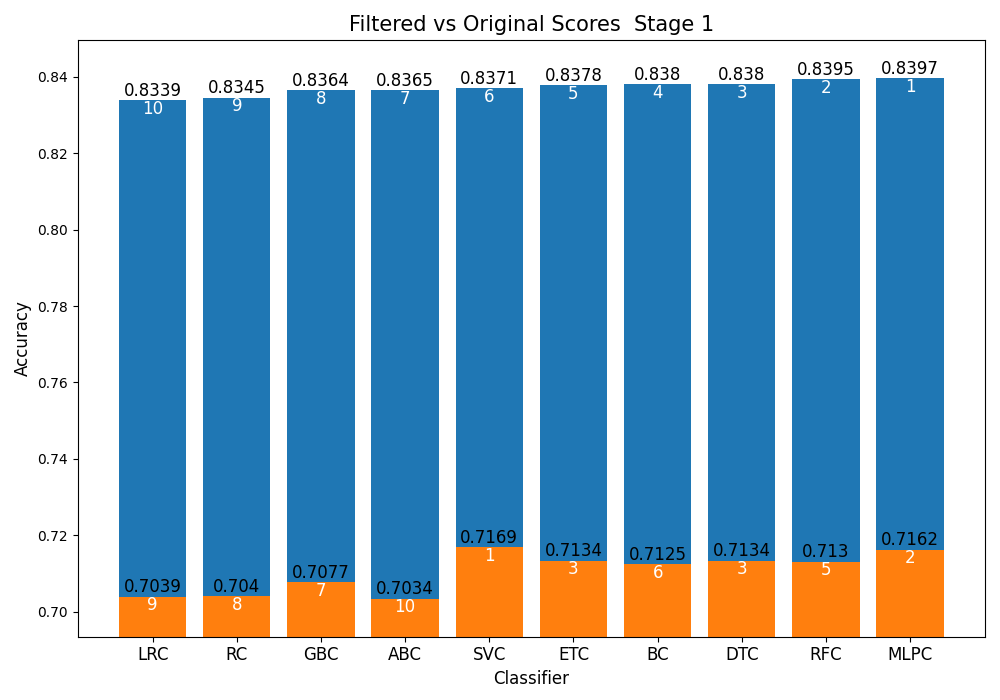
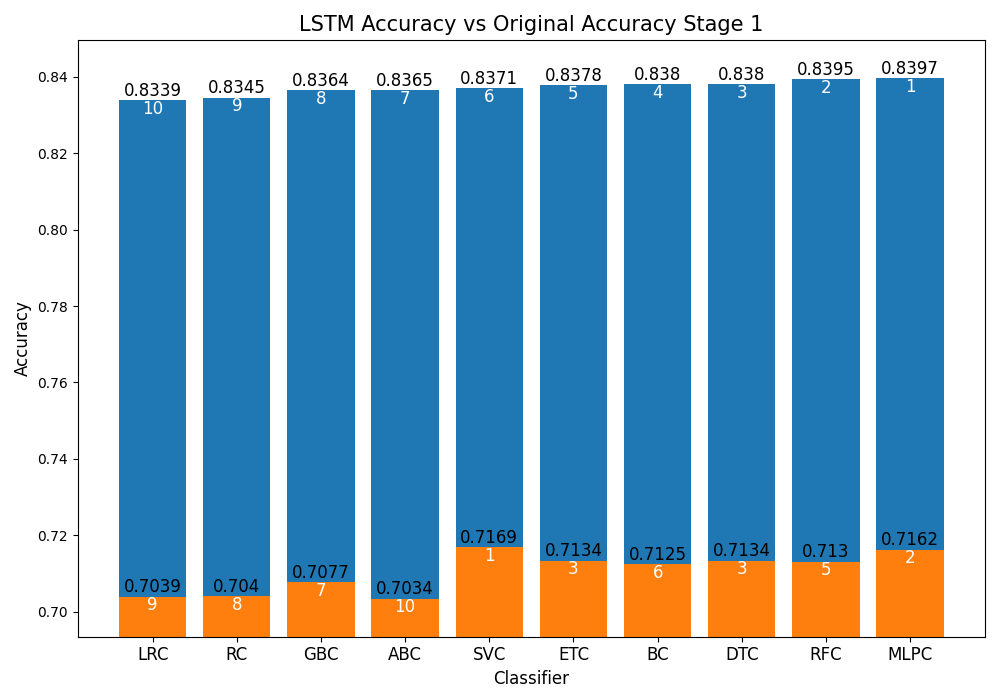
update plots 10.6

Changed region(s): [[0.31, 0.0, 0.744, 0.06]]

diff --git a/Notebooks_neryah/full_read.py b/Notebooks_neryah/full_read.py
@@ -163,7 +163,7 @@ def plot_comparison(filtered_names: List[str], filtered_accs: List[float], score
 
     ax.set_ylabel('Accuracy', fontsize=12)
     ax.set_xlabel('Classifier', fontsize=12)
-    ax.set_title(f'Filtered vs Original Scores  Stage {stage + 1}', fontsize=15)
+    ax.set_title(f'LSTM Accuracy vs Original Accuracy Stage {stage + 1}', fontsize=15)
     plt.xticks(fontsize=12)
     plt.ylim(min(scores_orig) - 0.01, max(filtered_accs) + 0.01)
     save_and_show_plot(f'final_performance_orig_stage_{stage + 1}.png')
